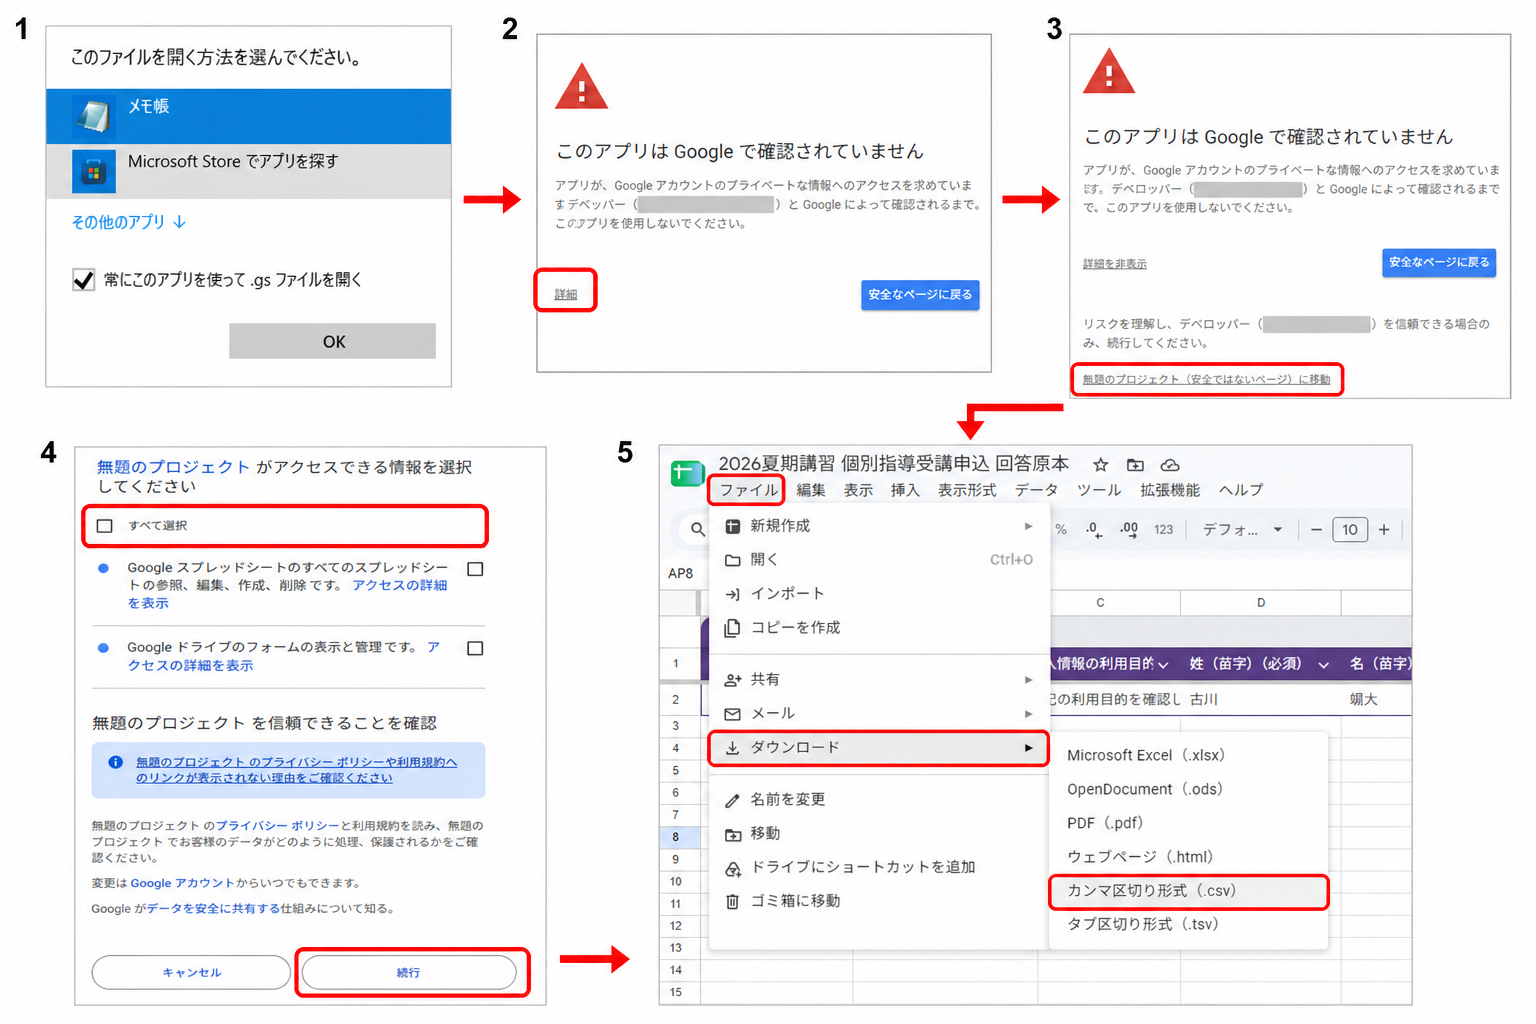
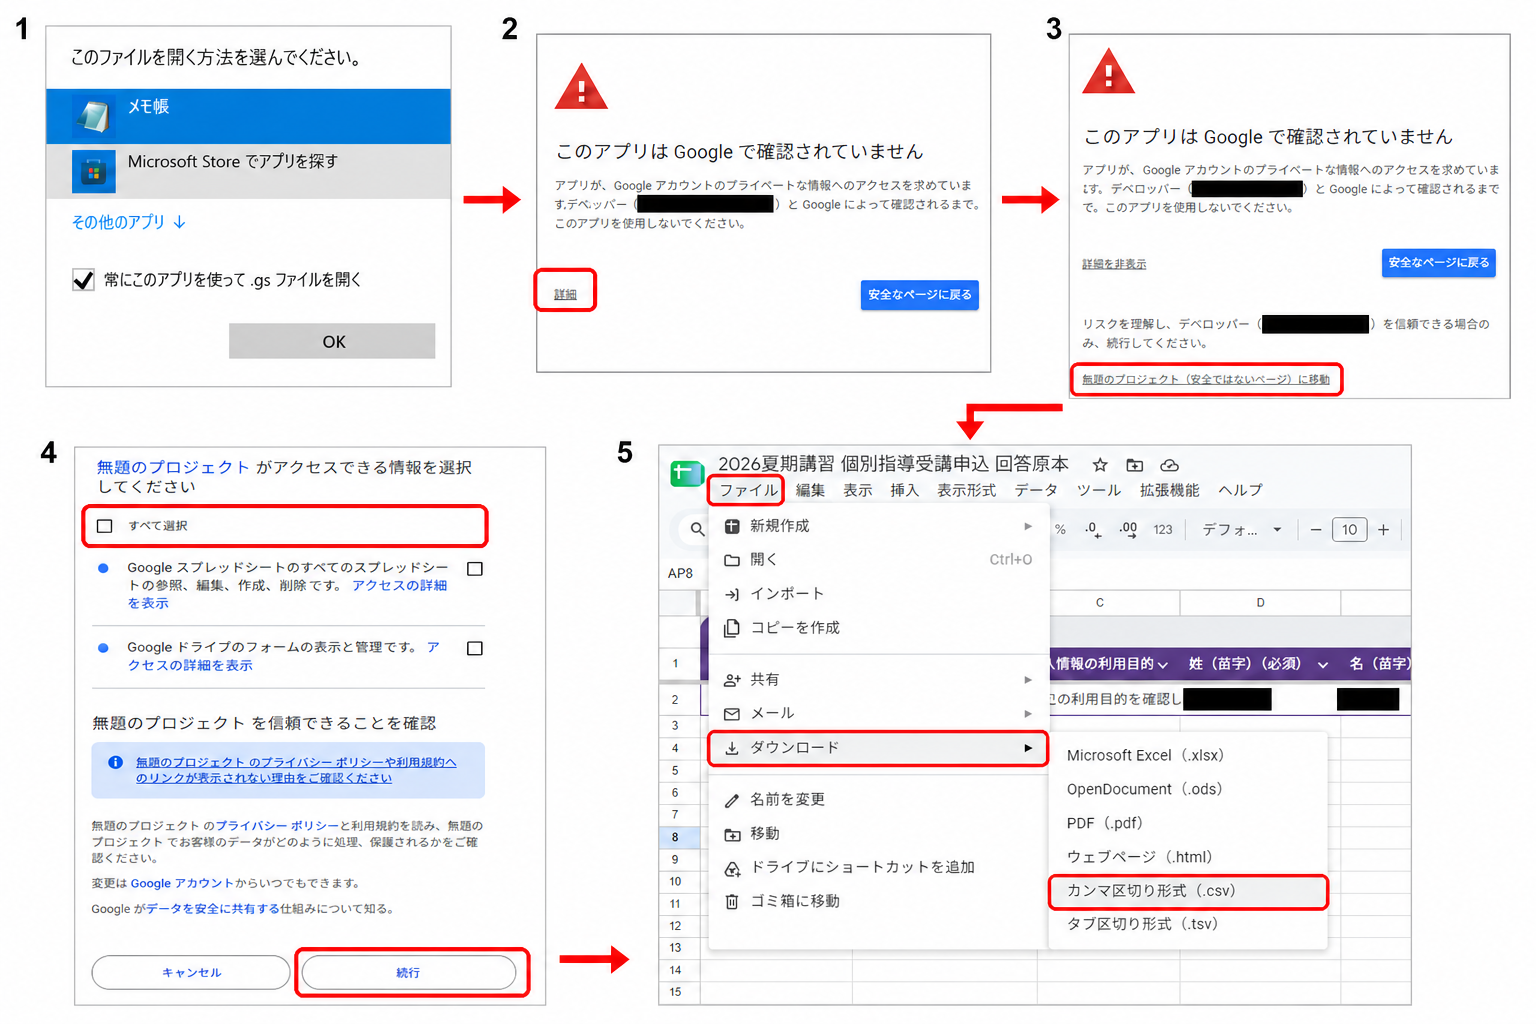
Release SummerCourseScheduler v1.4.2 Beta

diff --git a/tests/unit/test_phase7_version_about.py b/tests/unit/test_phase7_version_about.py
@@ -17,7 +17,7 @@ ROOT = Path(__file__).parents[2]
 def test_release_candidate_version_is_consistent_in_package_and_metadata() -> None:
     metadata = tomllib.loads((ROOT / "pyproject.toml").read_text(encoding="utf-8"))
 
-    assert __version__ == "1.4.1"
+    assert __version__ == "1.4.2"
     assert __release_channel__ == "Beta"
     assert metadata["project"]["version"] == __version__
 
@@ -25,7 +25,7 @@ def test_release_candidate_version_is_consistent_in_package_and_metadata() -> No
 def test_app_view_model_distinguishes_application_and_database_versions() -> None:
     view_model = AppViewModel(__version__, "20260729_0006", database_ready=True)
 
-    assert view_model._get_app_version() == "1.4.1"
+    assert view_model._get_app_version() == "1.4.2"
     assert view_model._get_release_channel() == "Beta"
     assert view_model._get_schema_version() == "20260729_0006"
     assert view_model._get_database_ready() is True
@@ -66,4 +66,4 @@ def test_report_metadata_contains_application_version() -> None:
         warnings=(),
     )
 
-    assert updated_text(snapshot).endswith("／アプリ v1.4.1 (Beta)")
+    assert updated_text(snapshot).endswith("／アプリ v1.4.2 (Beta)")

diff --git a/tests/unit/test_release_packaging.py b/tests/unit/test_release_packaging.py
@@ -26,8 +26,8 @@ REPOSITORY_ROOT = Path(__file__).resolve().parents[2]
 def test_release_version_and_tag_match_project_metadata() -> None:
     version = version_from_pyproject(REPOSITORY_ROOT / "pyproject.toml")
 
-    assert version == "1.4.1"
-    validate_tag("v1.4.1", version)
+    assert version == "1.4.2"
+    validate_tag("v1.4.2", version)
     with pytest.raises(ReleasePackagingError, match="一致しません"):
         validate_tag("v1.0.0", version)
     with pytest.raises(ReleasePackagingError, match="Semantic Versioning"):

diff --git a/src/summer_scheduler/__init__.py b/src/summer_scheduler/__init__.py
@@ -2,5 +2,5 @@
 
 __all__ = ["__release_channel__", "__version__"]
 
-__version__ = "1.4.1"
+__version__ = "1.4.2"
 __release_channel__ = "Beta"

diff --git a/docs/release_checklist.md b/docs/release_checklist.md
@@ -1,6 +1,6 @@
 # Release前チェックリスト
 
-このチェックリストは `v1.4.1 (Beta)` Releaseを検証するためのものです。
+このチェックリストは `v1.4.2 (Beta)` Releaseを検証するためのものです。
 チェックが埋まっただけで本番公開を許可しません。本番タグとGitHub Releaseには
 リポジトリ所有者の明示承認が必要です。
 
@@ -10,7 +10,7 @@
 - [ ] `CHANGELOG.md`が実装と一致し、存在しない機能を記載していない。
 - [ ] `pyproject.toml`、`summer_scheduler.__version__`、About、ログ、帳票のapp versionが一致する。
 - [ ] DB schema revisionとapp versionを別々に表示している。
-- [ ] Release tagはソース内versionと一致する `v1.4.1` であり、Pre-releaseである。
+- [ ] Release tagはソース内versionと一致する `v1.4.2` であり、Pre-releaseである。
 - [ ] git statusとdiffを確認し、無関係な変更、生成物、実データがない。
 
 ## 2. ライセンス・権利
@@ -99,7 +99,7 @@ pytest
   migration、YAML resourceを含む。
 - [ ] source、test、cache、build report、実データを不要に含めていない。
 - [ ] `THIRD_PARTY_NOTICES.md`と全文license directoryを含む。
-- [ ] artifact名が `SummerCourseScheduler-Portable-1.4.1.zip` と一致する。
+- [ ] artifact名が `SummerCourseScheduler-Portable-1.4.2.zip` と一致する。
 - [ ] ZIPを日本語名の別directoryへ展開して起動した。
 - [ ] Python、Node.js、Qt、Visual StudioのないWindows x64で起動した。
 - [ ] 管理者権限なし、offline、USB相当の別driveで確認した。
@@ -109,7 +109,7 @@ pytest
 
 ## 8. Windows installer
 
-- [ ] artifact名が `SummerCourseScheduler-Setup-1.4.1.exe` と一致する。
+- [ ] artifact名が `SummerCourseScheduler-Setup-1.4.2.exe` と一致する。
 - [ ] app名、version、publisher、install先が正しい。
 - [ ] Start menu shortcutと任意desktop shortcutが正しい。
 - [ ] `.jukuschedule`関連付けを採用する場合、引用符・icon・open動作を確認した。

diff --git a/docs/phase0_design.md b/docs/phase0_design.md
@@ -7,7 +7,7 @@
 省略・緩和・変更しない。
 
 本書の実装計画部分は、Phase 0 / 1着手時点の記録である。現在は
-Phase 7および`1.4.1 (Beta)`まで実装している。Phase 2で確定した
+Phase 7および`1.4.2 (Beta)`まで実装している。Phase 2で確定した
 プロジェクトファイル、マスターの所属範囲、
 削除、Excel transactionは
 [`ADR 0005`](adr/0005-project-file-and-master-data-lifecycle.md)を参照する。

diff --git a/docs/google_forms_questionnaire_guide.md b/docs/google_forms_questionnaire_guide.md
@@ -1,6 +1,6 @@
 # Googleフォーム アンケート作成・取込みガイド
 
-対象: SummerCourseScheduler `1.4.1 (Beta)`
+対象: SummerCourseScheduler `1.4.2 (Beta)`
 
 この文書は、生徒・保護者と講師から希望日時および講師の指導可能科目を集める
 Googleフォームの作り方と、回答を確認・取り込むまでの手順をまとめたものです。

diff --git a/docs/quick_start_guide.md b/docs/quick_start_guide.md
@@ -1,6 +1,6 @@
 # はじめて使う人のための簡単操作ガイド
 
-対象: SummerCourseScheduler `1.4.1 (Beta)`
+対象: SummerCourseScheduler `1.4.2 (Beta)`
 
 この文書は、初めて時間割を作る担当者が、作業の順番を迷わないための簡易版です。
 各画面の詳しい説明は[利用者マニュアル](user_manual.md)、問題が起きた場合は
